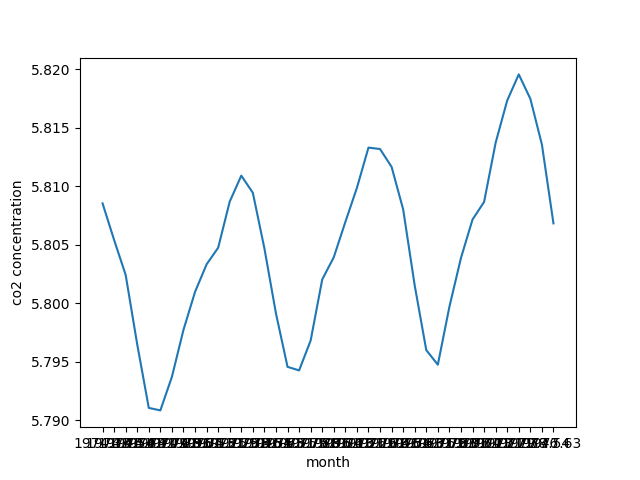
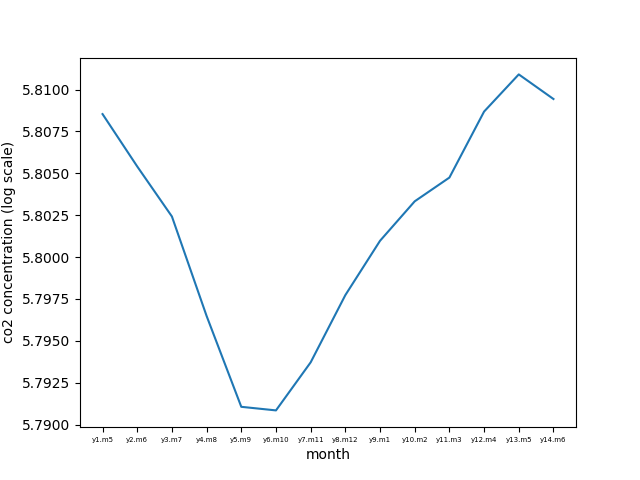
monthly trends chart updated

diff --git a/main.py b/main.py
@@ -19,7 +19,7 @@ data = [ele for ele in data if ele.get('co2')]
 lags = [i for i in range(40)]
 
 # co2 series by month
-months = [ele['year&month'] for ele in data]
+months = [ele['month'] for ele in data]
 series = [float(ele['co2']) for ele in data]
 
 # stats
@@ -57,16 +57,17 @@ plt.ylabel('co2 concentration')
 plt.savefig('./acf_scatter.png')
 
 plt.clf()
-
 plt.bar(lags, corrs)
 plt.xlabel('lags')
 plt.ylabel('co2 concentration')
 plt.savefig('./acf_bar.png')
 
-# # plot monthly co2 trend
-# plt.plot(months[:40], [math.log(ele) for ele in series[:40]])
-# plt.xlabel('month')
-# plt.ylabel('co2 concentration')
-# plt.savefig('./monthly_trend_scatter.png')
+# plot monthly co2 trend
+plt.clf()
+plt.rcParams['xtick.labelsize'] = 5
+plt.plot([ 'y' + str(i+1)+ '.m' +ele for i, ele in enumerate(months[:14])], [math.log(ele) for ele in series[:14]])
+plt.xlabel('month')
+plt.ylabel('co2 concentration (log scale)')
+plt.savefig('./monthly_trend_scatter.png')
 
 
